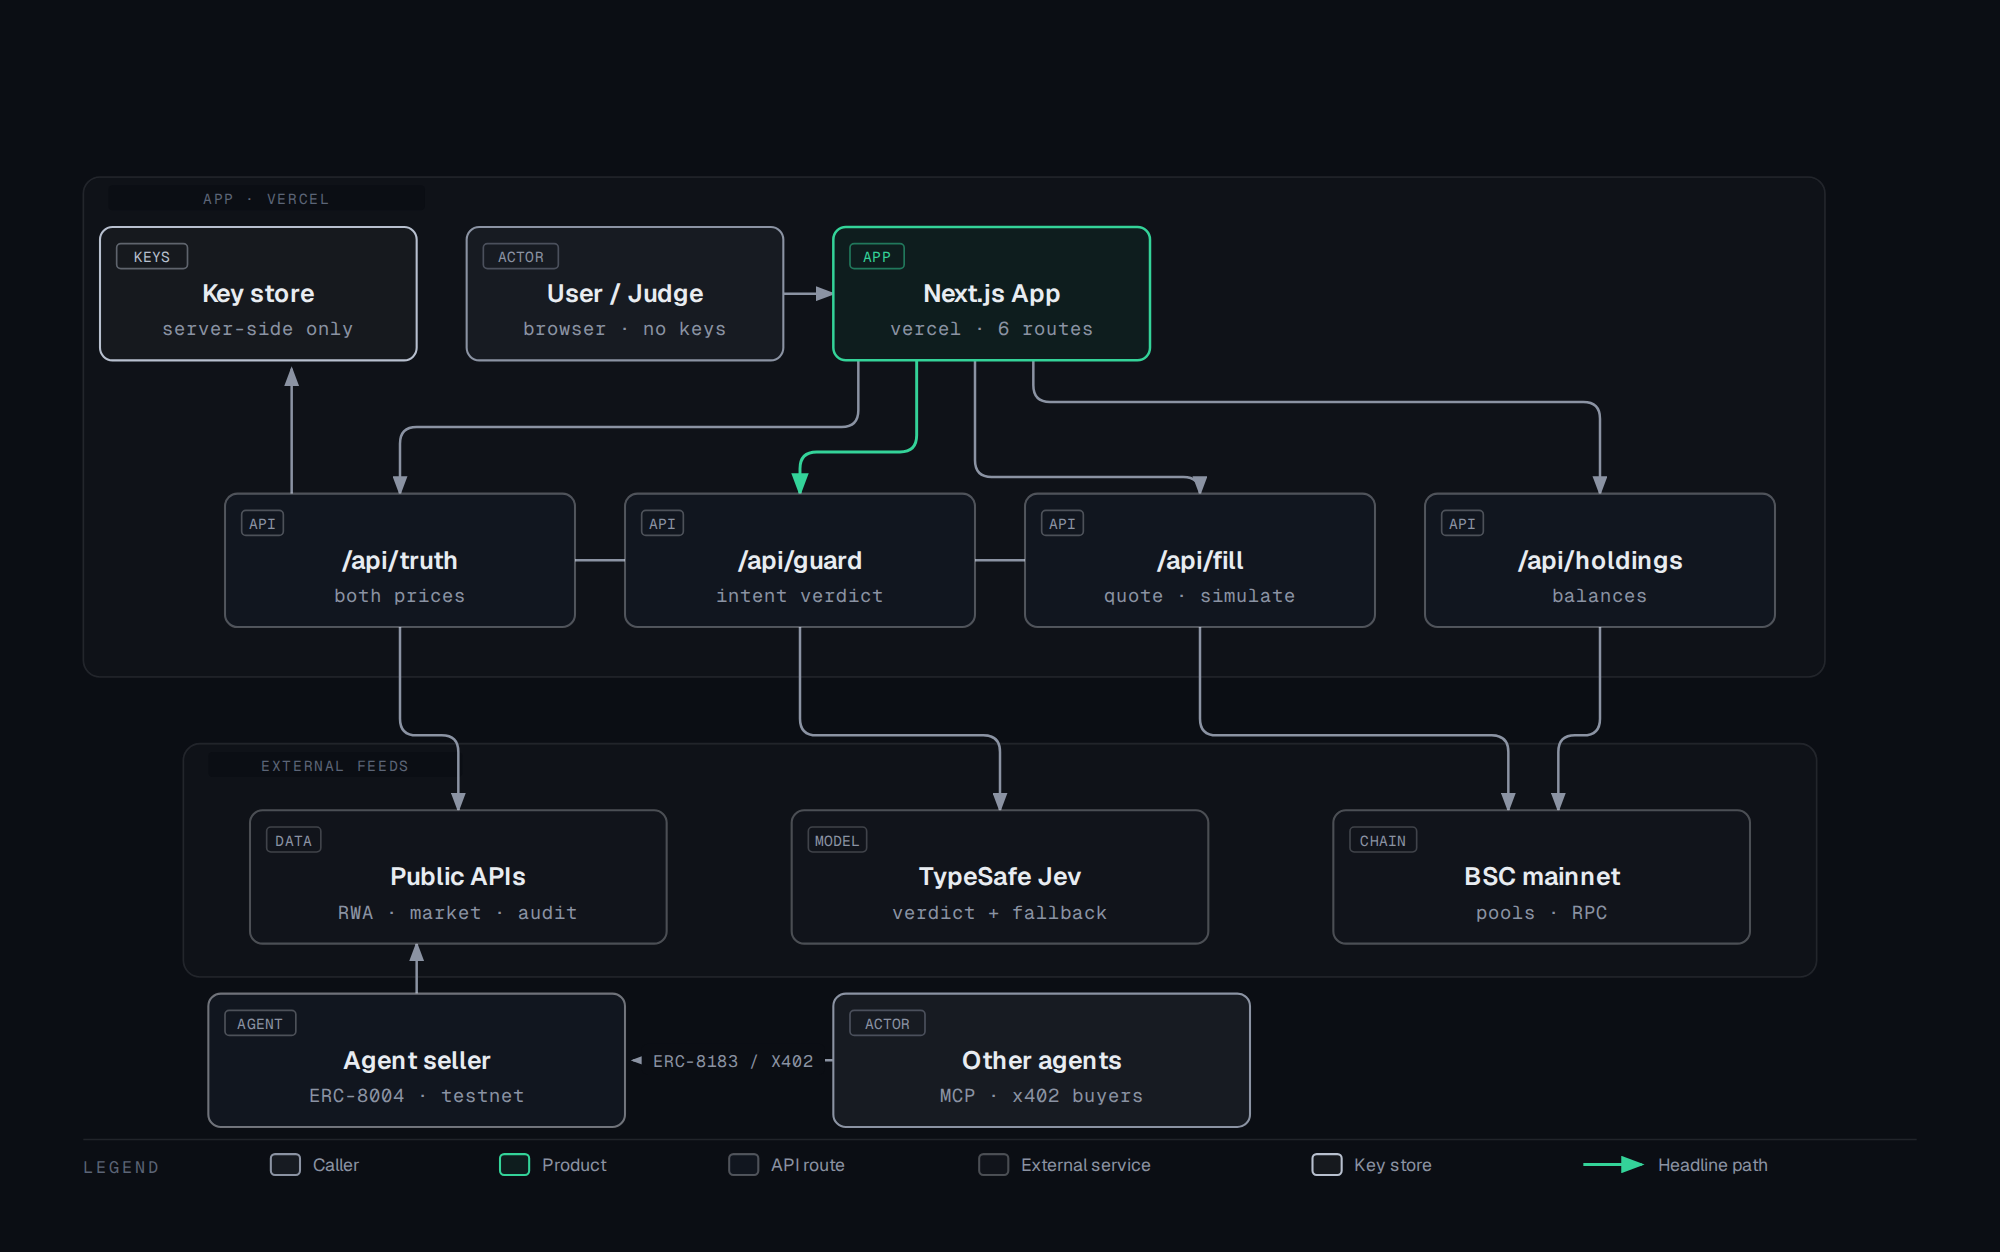
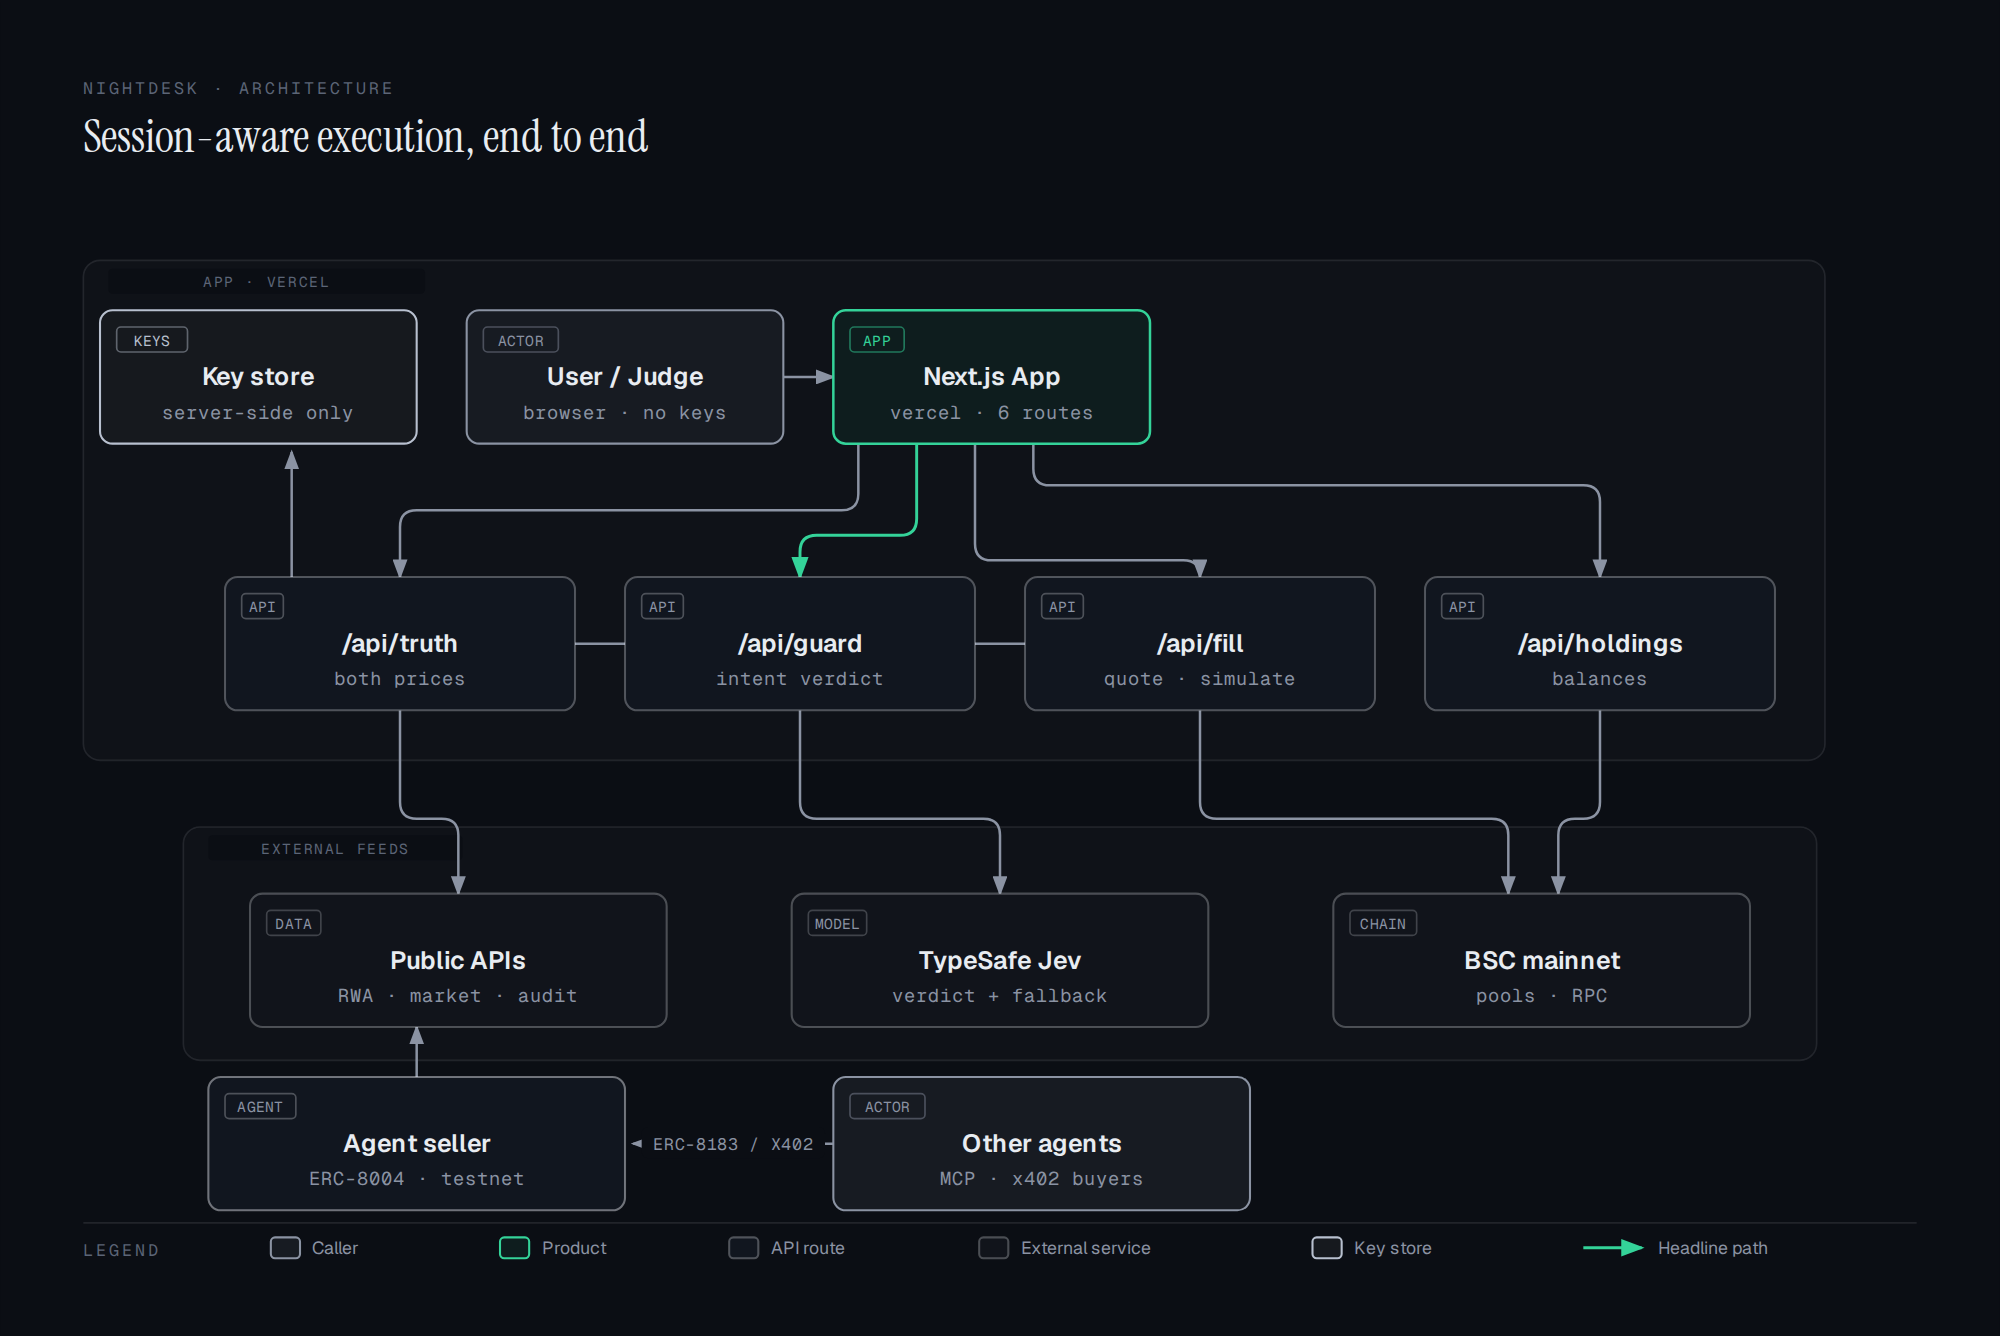
Diagram titles + honest link states
- Titles baked into all three diagrams (eyebrow + serif heading in the
  SVG, so standalone PNGs are self-explanatory); re-exported at 2x
- README top: demo video link added; agent card marked as an expired
  48h platform trial with escrow evidence pointer (verified 410)
- SUBMISSION.md: agent entry reflects the archived trial accurately

diff --git a/docs/diagrams/guard-flow.html b/docs/diagrams/guard-flow.html
@@ -37,7 +37,7 @@
     <h1>One intent, one batched judgment</h1>
 
     <div class="diagram-container">
-      <svg viewBox="0 0 960 600" xmlns="http://www.w3.org/2000/svg" role="img" aria-labelledby="guard-flow-title guard-flow-desc">
+      <svg viewBox="0 0 960 640" xmlns="http://www.w3.org/2000/svg" role="img" aria-labelledby="guard-flow-title guard-flow-desc">
         <title id="guard-flow-title">NightDesk guard sequence</title>
         <desc id="guard-flow-desc">A plain-English buy intent flows from the user through the app to the truth route and the guard, which asks TypeSafe Jev one batched call and returns a routed action.</desc>
         <defs>
@@ -45,7 +45,13 @@
           <marker id="arrow-accent" markerWidth="8" markerHeight="6" refX="7" refY="3" orient="auto"><polygon points="0 0, 8 3, 0 6" fill="#34d399"/></marker>
         </defs>
 
-        <rect width="960" height="600" fill="#0b0e14"/>
+        <rect width="960" height="640" fill="#0b0e14"/>
+
+        <!-- ── diagram title ───────────────────────────────────── -->
+        <text x="40" y="44" fill="#5c6577" font-size="8" font-family="'Geist Mono', monospace" letter-spacing="0.18em">NIGHTDESK · GUARD FLOW</text>
+        <text x="40" y="72" fill="#e8ecf1" font-size="22" font-family="'Instrument Serif', serif">One intent, one batched judgment</text>
+
+        <g transform="translate(0, 40)">
 
         <!-- ── lifelines (drawn before actors) ─────────────────── -->
         <line x1="130" y1="168" x2="130" y2="520" stroke="rgba(232,236,241,0.16)" stroke-width="1" stroke-dasharray="4,4"/>
@@ -137,6 +143,7 @@
         <text x="296" y="566" fill="#8b93a3" font-size="8.5" font-family="'Geist', sans-serif">Response</text>
         <line x1="410" y1="562" x2="438" y2="562" stroke="#34d399" stroke-width="1.4" marker-end="url(#arrow-accent)"/>
         <text x="446" y="566" fill="#8b93a3" font-size="8.5" font-family="'Geist', sans-serif">Headline verdict</text>
+        </g>
       </svg>
     </div>
   </div>

diff --git a/docs/diagrams/architecture.html b/docs/diagrams/architecture.html
@@ -48,7 +48,7 @@
     <h1>Session-aware execution, end to end</h1>
 
     <div class="diagram-container">
-      <svg viewBox="0 0 960 600" xmlns="http://www.w3.org/2000/svg" role="img" aria-labelledby="architecture-title architecture-desc">
+      <svg viewBox="0 0 960 640" xmlns="http://www.w3.org/2000/svg" role="img" aria-labelledby="architecture-title architecture-desc">
         <title id="architecture-title">NightDesk architecture</title>
         <desc id="architecture-desc">Browser and agent callers reach the Next.js app on Vercel, whose API routes read public feeds, the TypeSafe model, and BSC; the key store stays server-side, and a separate Agent Studio seller serves other agents.</desc>
         <defs>
@@ -56,7 +56,13 @@
           <marker id="arrow-accent" markerWidth="8" markerHeight="6" refX="7" refY="3" orient="auto"><polygon points="0 0, 8 3, 0 6" fill="#34d399"/></marker>
         </defs>
 
-        <rect width="960" height="600" fill="#0b0e14"/>
+        <rect width="960" height="640" fill="#0b0e14"/>
+
+        <!-- ── diagram title ───────────────────────────────────── -->
+        <text x="40" y="44" fill="#5c6577" font-size="8" font-family="'Geist Mono', monospace" letter-spacing="0.18em">NIGHTDESK · ARCHITECTURE</text>
+        <text x="40" y="72" fill="#e8ecf1" font-size="22" font-family="'Instrument Serif', serif">Session-aware execution, end to end</text>
+
+        <g transform="translate(0, 40)">
 
         <!-- ── zones (drawn first) ─────────────────────────────── -->
         <rect x="40" y="84" width="836" height="240" rx="8" fill="rgba(232,236,241,0.02)" stroke="rgba(232,236,241,0.10)" stroke-width="0.8"/>
@@ -215,6 +221,7 @@
 
         <line x1="760" y1="558" x2="788" y2="558" stroke="#34d399" stroke-width="1.4" marker-end="url(#arrow-accent)"/>
         <text x="796" y="561" fill="#8b93a3" font-size="8.5" font-family="'Geist', sans-serif">Headline path</text>
+        </g>
       </svg>
     </div>
   </div>

diff --git a/docs/diagrams/fill-flow.html b/docs/diagrams/fill-flow.html
@@ -37,14 +37,20 @@
     <h1>Nothing broadcasts without a passing dry-run</h1>
 
     <div class="diagram-container">
-      <svg viewBox="0 0 960 600" xmlns="http://www.w3.org/2000/svg" role="img" aria-labelledby="fill-flow-title fill-flow-desc">
+      <svg viewBox="0 0 960 640" xmlns="http://www.w3.org/2000/svg" role="img" aria-labelledby="fill-flow-title fill-flow-desc">
         <title id="fill-flow-title">NightDesk fill flow</title>
         <desc id="fill-flow-desc">A live quote is simulated; failures are refused with a reason and passes continue through cap and kill-switch checks to a capped broadcast, either through a full dry-run or an approve-first flow.</desc>
         <defs>
           <marker id="arrow" markerWidth="8" markerHeight="6" refX="7" refY="3" orient="auto"><polygon points="0 0, 8 3, 0 6" fill="#8b93a3"/></marker>
         </defs>
 
-        <rect width="960" height="600" fill="#0b0e14"/>
+        <rect width="960" height="640" fill="#0b0e14"/>
+
+        <!-- ── diagram title ───────────────────────────────────── -->
+        <text x="40" y="44" fill="#5c6577" font-size="8" font-family="'Geist Mono', monospace" letter-spacing="0.18em">NIGHTDESK · FILL FLOW</text>
+        <text x="40" y="72" fill="#e8ecf1" font-size="22" font-family="'Instrument Serif', serif">Nothing broadcasts without a passing dry-run</text>
+
+        <g transform="translate(0, 40)">
 
         <!-- ── arrows (before nodes) ───────────────────────────── -->
 
@@ -120,6 +126,7 @@
         <rect x="380" y="508" width="200" height="44" rx="20" fill="rgba(52,211,153,0.08)" stroke="#34d399" stroke-width="1.2"/>
         <text x="480" y="527" fill="#e8ecf1" font-size="12" font-weight="600" font-family="'Geist', sans-serif" text-anchor="middle">Broadcast</text>
         <text x="480" y="543" fill="#8b93a3" font-size="9" font-family="'Geist Mono', monospace" text-anchor="middle">capped live fill</text>
+        </g>
       </svg>
     </div>
   </div>

diff --git a/README.md b/README.md
@@ -3,7 +3,7 @@
 > Friday 4pm ET: the reference freezes. The token doesn't.
 > Every screen shows you a price. None tells you what it means.
 
-**Live:** <a href="https://nightdesk-psi.vercel.app" target="_blank" rel="noreferrer">app</a> · <a href="https://bnbagent-api.bnbchain.world/v1/rt/01M34DSYKGTMQ4QQ1EFQE99T1V/.well-known/agent-card.json" target="_blank" rel="noreferrer">Agent card</a> (testnet trial) · <a href="https://bscscan.com/address/0x4Ba1e9e275EF61B56C99532D0066506436201D73" target="_blank" rel="noreferrer">Demo wallet</a> · <a href="https://github.com/PhiBao/nightdesk" target="_blank" rel="noreferrer">Repo</a>
+**Live:** <a href="https://nightdesk-psi.vercel.app" target="_blank" rel="noreferrer">app</a> · <a href="https://youtu.be/N-KIcmmdEZE" target="_blank" rel="noreferrer">demo video (100 s)</a> · <a href="https://bscscan.com/address/0x4Ba1e9e275EF61B56C99532D0066506436201D73" target="_blank" rel="noreferrer">demo wallet</a> · <a href="https://github.com/PhiBao/nightdesk" target="_blank" rel="noreferrer">repo</a> · <a href="https://bnbagent-api.bnbchain.world/v1/rt/01M34DSYKGTMQ4QQ1EFQE99T1V/.well-known/agent-card.json" target="_blank" rel="noreferrer">agent card</a> (48 h testnet trial — platform limit, archived Sept 24; escrow evidence in §8)
 
 Built for the **BNB Hack: Tokenized Stocks Edition** (BSC mainnet, spot only).
 

diff --git a/SUBMISSION.md b/SUBMISSION.md
@@ -39,7 +39,7 @@ Stack: RWA Data + Market (dynamic V2) + TypeSafe guard · Trading/Transaction wi
   - Approval hygiene: leftover 5-USDT router approval revoked on-chain
     (allowance now 0):
     <a href="https://bscscan.com/tx/0xc1a14d876e15320c8e332a5f9c409eb7c6e2302190859415078ae8429d197804" target="_blank" rel="noreferrer">https://bscscan.com/tx/0xc1a14d876e15320c8e332a5f9c409eb7c6e2302190859415078ae8429d197804</a>
-- AGENT (live, testnet trial ~48h from 2026-09-22 ~11:25 UTC):
+- AGENT (testnet trial, 48 h from 2026-09-22 ~11:25 UTC — platform limit; **trial archived Sept 24, card now returns 410**):
   - A2A card: <a href="https://bnbagent-api.bnbchain.world/v1/rt/01M34DSYKGTMQ4QQ1EFQE99T1V/.well-known/agent-card.json" target="_blank" rel="noreferrer">https://bnbagent-api.bnbchain.world/v1/rt/01M34DSYKGTMQ4QQ1EFQE99T1V/.well-known/agent-card.json</a>
   - ERC-8004: agent_id 2460, wallet `0xCBF4…9640C` (gasless operator relay)
   - Remote `negotiate` verified: signed 0.1 U quote for "NVDA weekend spread report"
